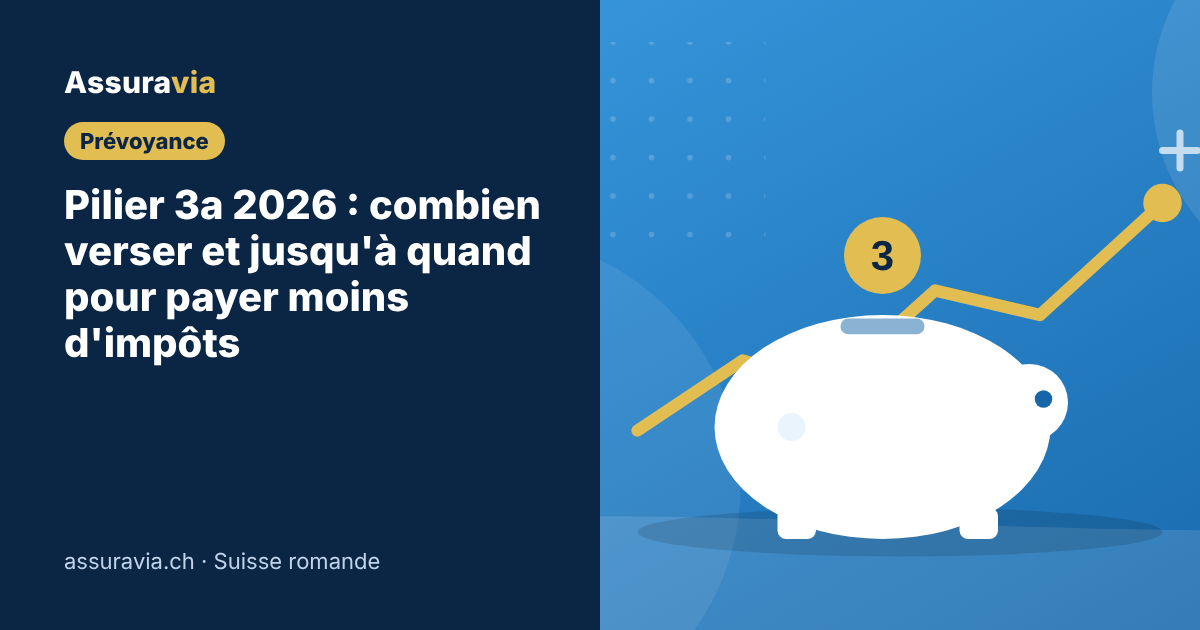
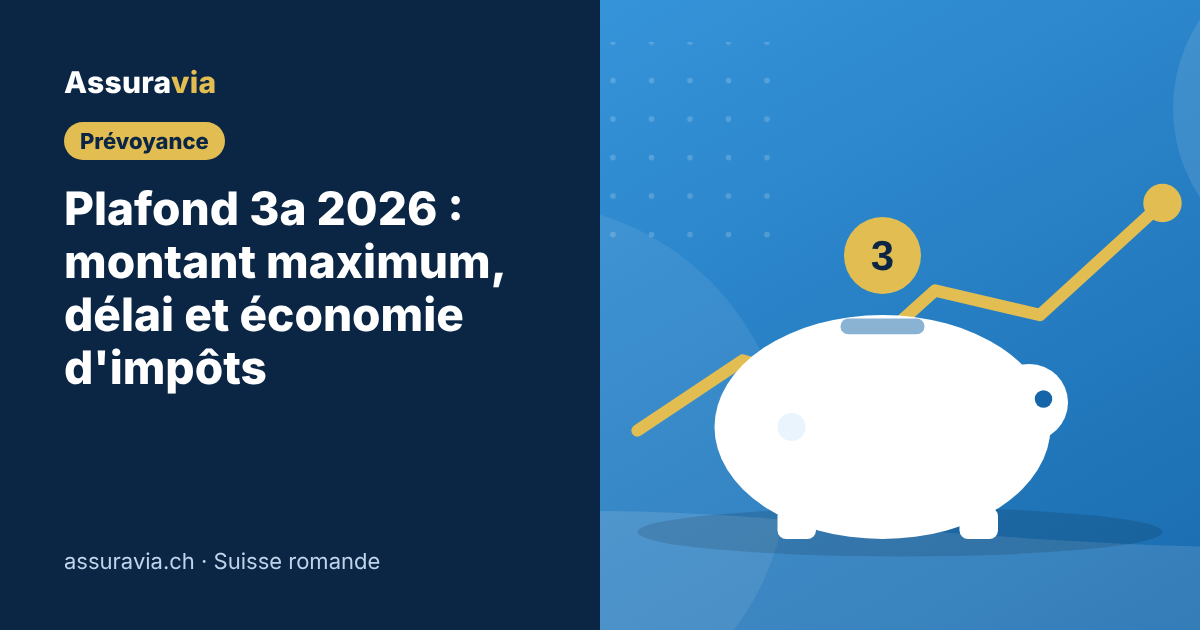
SEO : article plafond 3a 2026 renforcé (rachat, économie par canton), page libre passage enrichie
Claude-Session: https://claude.ai/code/session_01UBCpv1DPT8KsLzcxHwuqLa

Changed region(s): [[0.0308, 0.3016, 0.4625, 0.6333], [0.9558, 0.2111, 1.0, 0.2714], [0.9558, 0.8444, 1.0, 0.8746]]

diff --git a/templates/article.html b/templates/article.html
@@ -26,7 +26,7 @@
       <p class="badge">{{ article.categorie }}</p>
       <h1>{{ article.titre }}</h1>
       <p class="chapeau">{{ article.description }}</p>
-      <p class="article__meta">{{ i.icone("horloge", "icone icone--petite") }} {{ article.lecture }} min de lecture <span aria-hidden="true">·</span> Publié le <time datetime="{{ article.date }}">{{ article.date_fr }}</time>{% if article.maj %}, mis à jour le {{ article.maj }}{% endif %}</p>
+      <p class="article__meta">{{ i.icone("horloge", "icone icone--petite") }} {{ article.lecture }} min de lecture <span aria-hidden="true">·</span> Publié le <time datetime="{{ article.date }}">{{ article.date_fr }}</time>{% if article.maj %}, mis à jour le <time datetime="{{ article.maj }}">{{ article.maj_fr }}</time>{% endif %}</p>
       </div>
       <div class="article__image">{{ cv.couverture(article.categorie, (article.titre|length * 7 + article.url|length * 3) % 100, article.illustration) }}</div>
     </div>

diff --git a/templates/pages/particuliers/3e-pilier.html b/templates/pages/particuliers/3e-pilier.html
@@ -135,6 +135,7 @@
           </tbody>
         </table>
       </div>
+      <p>Plafonds, date limite du 31 décembre et économie d'impôts dans chaque canton romand : tout le détail dans notre article <a href="/blog/pilier-3a-2026-montant-delai/">plafond 3a 2026 : montant maximum et délai</a>.</p>
 
       <h2 id="avantages">Ce que le 3e pilier vous apporte</h2>
       <div class="lp-avantages p3-avantages">

diff --git a/build.py b/build.py
@@ -276,6 +276,7 @@ def lire_article(path: Path) -> dict:
         "slug": path.stem,
         "date_obj": date,
         "date_fr": date_fr(date),
+        "maj_fr": date_fr(dt.date.fromisoformat(meta["maj"])) if meta.get("maj") else "",
         "html": html,
         "html_debut": html[:coupe],
         "html_fin": html[coupe:],

diff --git a/content/articles/pilier-3a-2026-montant-delai.md b/content/articles/pilier-3a-2026-montant-delai.md
@@ -1,72 +1,119 @@
 ---
-titre: Pilier 3a 2026 : combien verser et jusqu'à quand pour payer moins d'impôts
-titre_seo: Pilier 3a 2026 : combien verser et quand
-description: Montants maximums 2026, date limite du 31 décembre, économie d'impôts selon votre revenu et rattrapage des années manquées : l'essentiel sur le 3e pilier.
+titre: Plafond 3a 2026 : montant maximum, délai et économie d'impôts
+titre_seo: Plafond 3a 2026 : montant maximum et délai
+description: Plafond du pilier 3a en 2026 (CHF 7'258 ou 36'288), délai du 31 décembre, rachat des lacunes 2025 et économie d'impôts dans chaque canton romand.
 date: 2026-09-08
+maj: 2026-11-08
 illustration: tirelire
 categorie: Prévoyance
 cta_titre: Combien allez-vous économiser ?
 cta_texte: Le simulateur calcule votre économie d'impôts selon votre canton et votre revenu, en une minute.
 cta_url: /particuliers/3e-pilier/
 cta_bouton: Calculer mon économie
-retenir: Jusqu'à CHF 7'258 déductibles en 2026 pour un salarié, jusqu'à CHF 36'288 pour un indépendant sans caisse de pension | Le versement doit être crédité avant le 31 décembre | L'économie dépend de votre taux marginal d'imposition | Depuis 2025, les années manquées peuvent être rattrapées
+retenir: Plafond 3a 2026 : CHF 7'258 pour un salarié affilié à une caisse de pension, 20 % du revenu net et au maximum CHF 36'288 pour un indépendant sans caisse de pension | Le versement doit être crédité sur le compte 3a au plus tard le 31 décembre 2026 | Depuis 2026, vous pouvez aussi racheter la lacune de 2025, en plus du versement de l'année | Pour CHF 7'258 versés, l'économie d'impôts tourne autour de CHF 2'000 à 3'000 selon le canton et le revenu
 produits_lies: 3e-pilier, placements, declaration-impots
-quiz: Le 3e pilier A peut être versé jusqu'au 15 janvier pour l'année précédente. | faux | Le versement doit être crédité au plus tard le 31 décembre de l'année concernée. ;; Un indépendant sans caisse de pension peut verser plus qu'un salarié. | vrai | Il peut verser jusqu'à 20 % de son revenu net, au maximum CHF 36'288 en 2026. ;; Avoir plusieurs comptes 3a peut réduire l'impôt au moment du retrait. | vrai | Chaque compte se retire en une fois : en étalant les retraits sur plusieurs années, l'impôt sur le capital baisse souvent.
-pour_qui: Vous êtes salarié et n'avez pas encore versé sur votre 3a cette année | Vous avez un 3a sur un simple compte épargne | Vous avez sauté des versements depuis 2025 | Vous n'avez qu'un seul compte 3a
+quiz: Le 3e pilier A peut être versé jusqu'au 15 janvier pour l'année précédente. | faux | Le versement doit être crédité au plus tard le 31 décembre de l'année concernée. ;; En 2026, on peut racheter les années manquées depuis 2015. | faux | Seules les lacunes nées à partir de 2025 peuvent être rachetées. Le premier rachat possible porte donc sur 2025, et se fait en 2026. ;; Avoir plusieurs comptes 3a peut réduire l'impôt au moment du retrait. | vrai | Chaque compte se retire en une fois : en étalant les retraits sur plusieurs années, l'impôt sur le capital baisse souvent.
+pour_qui: Vous êtes salarié et n'avez pas encore versé sur votre 3a cette année | Vous n'avez pas versé le maximum en 2025 | Vous êtes indépendant sans caisse de pension | Vous n'avez qu'un seul compte 3a
 widget: capital-3a
 ---
 
-Le pilier 3a est l'un des rares moyens légaux de réduire ses impôts en Suisse, et il a une date limite stricte : le 31 décembre. Voici ce qu'il faut savoir pour en profiter en 2026.
+Le pilier 3a est l'un des rares moyens légaux de payer moins d'impôts en Suisse. Il a un plafond, qui dépend de votre situation, et une date limite stricte : le 31 décembre. Voici les montants 2026, le nouveau rachat des années manquées et ce que vous pouvez économiser dans chaque canton romand.
 
-## Les montants maximums en 2026
+## Le plafond du pilier 3a en 2026
 
-Le plafond dépend de votre affiliation à une caisse de pension (2e pilier).
+Le montant maximum dépend d'une seule question : êtes-vous affilié à une caisse de pension (2e pilier) ?
 
-| Votre situation | Versement maximum déductible en 2026 |
+| Votre situation | Plafond 3a 2026 |
 |---|---|
 | Salarié affilié à une caisse de pension | CHF 7'258 |
+| Indépendant affilié à une caisse de pension (volontairement) | CHF 7'258 |
 | Indépendant sans caisse de pension | 20 % du revenu net, au maximum CHF 36'288 |
+| Salarié sans caisse de pension (petit salaire, sous le seuil LPP) | 20 % du revenu, au maximum CHF 36'288 |
 
-Ces montants sont des maximums : vous pouvez verser moins, et la déduction correspond alors au montant réellement versé.
+Les montants sont les mêmes qu'en 2025. Ce sont des maximums : vous pouvez verser moins. La déduction correspond alors au montant réellement versé.
 
-## La date limite : le 31 décembre
+**Exemple d'indépendant.** Marc est graphiste indépendant à Fribourg, sans caisse de pension. Son revenu net est de CHF 90'000. Il peut verser 20 % de ce montant, soit CHF 18'000, et le déduire en entier.
 
-Pour être déductible sur l'année 2026, le versement doit être **crédité** sur votre compte 3a au plus tard le 31 décembre. Un virement lancé le 30 décembre peut arriver trop tard. Prévoyez quelques jours de marge, surtout pendant les fêtes.
+> **Le saviez-vous ?** Le plafond s'applique par personne. Un couple marié où les deux travaillent peut donc verser deux fois CHF 7'258, chacun sur son propre compte 3a, et déduire CHF 14'516 au total.
 
-Si vous n'avez pas encore de 3e pilier, l'ouverture prend en général quelques jours. Mieux vaut s'y prendre dès novembre.
+## Le délai : crédité au plus tard le 31 décembre
 
-> **Le saviez-vous ?** Le versement au 3e pilier se déduit dans la [déclaration d'impôts](/particuliers/declaration-impots/) de l'année du versement. Gardez bien l'attestation que vous envoie votre banque ou votre assureur en début d'année.
+Pour compter sur l'année 2026, le versement doit être **crédité** sur votre compte 3a au plus tard le 31 décembre. C'est la date d'arrivée qui compte, pas celle de l'ordre de paiement.
+
+- Un virement lancé le 30 décembre peut arriver le 3 janvier : il comptera alors pour 2027.
+- Plusieurs banques et assureurs fixent un délai interne quelques jours avant la fin de l'année. Vérifiez-le auprès du vôtre.
+- Ouvrir un premier compte 3a prend en général quelques jours. Si vous n'en avez pas encore, faites-le dès novembre.
+
+> **Attention :** un versement au-dessus du plafond n'est pas déductible. Le prestataire doit vous le rembourser. Gardez un œil sur le total si vous avez plusieurs comptes.
+
+[[cta | Vous n'avez pas encore versé cette année ? Un conseiller vous aide à choisir et ouvrir le bon compte avant le 31 décembre. | /particuliers/3e-pilier/ | Être conseillé gratuitement]]
 
 ## Combien d'impôts allez-vous économiser ?
 
-Le montant versé est déduit de votre revenu imposable pour l'impôt fédéral, cantonal et communal. L'économie dépend de votre **taux marginal**, c'est-à-dire du taux qui frappe la dernière tranche de votre revenu.
+Le montant versé est déduit de votre revenu imposable, pour l'impôt fédéral, cantonal et communal. L'économie dépend de votre **taux marginal** : le taux qui frappe la dernière tranche de votre revenu. Plus votre revenu est élevé, plus la déduction rapporte.
 
-À titre d'ordre de grandeur, pour un versement de CHF 7'258 :
+Nous avons calculé l'économie pour un versement de CHF 7'258, à partir des taux marginaux moyens au chef-lieu de chaque canton, pour une personne seule :
 
-- avec un taux marginal de 20 %, l'économie est d'environ CHF 1'450 ;
-- avec un taux marginal de 30 %, environ CHF 2'180 ;
-- avec un taux marginal de 40 %, environ CHF 2'900.
+| Canton | Revenu imposable CHF 75'000 | CHF 100'000 | CHF 150'000 |
+|---|---|---|---|
+| Genève | ≈ CHF 2'320 | ≈ CHF 2'610 | ≈ CHF 2'900 |
+| Vaud | ≈ CHF 2'470 | ≈ CHF 2'690 | ≈ CHF 2'980 |
+| Neuchâtel | ≈ CHF 2'400 | ≈ CHF 2'610 | ≈ CHF 2'830 |
+| Jura | ≈ CHF 2'320 | ≈ CHF 2'540 | ≈ CHF 2'760 |
+| Fribourg | ≈ CHF 2'250 | ≈ CHF 2'470 | ≈ CHF 2'690 |
+| Valais | ≈ CHF 2'030 | ≈ CHF 2'250 | ≈ CHF 2'540 |
+| Berne (francophone) | ≈ CHF 2'320 | ≈ CHF 2'540 | ≈ CHF 2'760 |
 
-Le taux marginal varie beaucoup selon le canton, la commune, l'état civil et le revenu. Le plus simple est de faire le calcul avec votre propre situation.
+Ces chiffres sont des ordres de grandeur. Votre économie réelle dépend de votre commune, de votre état civil et de vos autres déductions. Le [simulateur 3e pilier](/particuliers/3e-pilier/) fait le calcul avec votre propre revenu.
 
-## Rattraper les années manquées
+> **Astuce :** l'économie revient chaque année. Sur 30 ans de versements, à CHF 2'500 par an, cela représente environ CHF 75'000 d'impôts en moins, sans compter le rendement de l'épargne.
 
-Depuis 2025, la loi permet de rattraper des versements 3a pour les années où vous n'avez pas versé le maximum. Les règles principales :
+## Nouveau : racheter les années manquées
 
-- seules les lacunes **à partir de l'année 2025** peuvent être rattrapées, jusqu'à 10 ans en arrière ;
-- il faut avoir eu un revenu soumis à l'AVS l'année concernée ;
-- vous devez d'abord avoir versé le maximum de l'année en cours.
+Depuis le 1er janvier 2025, la loi permet de combler les lacunes du pilier 3a. Une lacune, c'est la différence entre le plafond d'une année et ce que vous avez réellement versé.
 
-Si vous n'avez pas versé le maximum en 2025, vous pouvez donc combler cette lacune en plus de votre versement 2026. Les modalités pratiques varient selon les banques et assureurs.
+Les règles principales :
 
-## Banque ou assurance ?
+1. **Seules les lacunes à partir de 2025 comptent.** Les années avant 2025 ne peuvent pas être rachetées. Le premier rachat possible se fait donc en 2026, pour l'année 2025.
+2. **Jusqu'à 10 ans en arrière.** Une lacune reste rachetable pendant dix ans.
+3. **D'abord le versement de l'année.** Pour racheter, vous devez avoir versé le plafond de l'année en cours, soit CHF 7'258 en 2026.
+4. **Un revenu AVS les deux années.** Vous devez avoir eu un revenu soumis à l'AVS l'année de la lacune et l'année du rachat.
+5. **Un plafond par rachat.** Chaque année, le rachat est limité à la « petite » cotisation, soit CHF 7'258. Un salarié peut donc verser jusqu'à CHF 14'516 en 2026 : le versement ordinaire plus le rachat.
 
-Un **3e pilier bancaire** est souple : vous versez ce que vous voulez, quand vous voulez, sur un compte épargne ou dans des fonds de placement. Un **3e pilier d'assurance** vous engage à verser régulièrement, mais peut inclure une protection en cas de décès ou d'invalidité.
+Le rachat est déductible du revenu imposable, comme le versement ordinaire. Les modalités pratiques (formulaire, attestation, délais) varient selon les banques et les assureurs.
 
-Le bon choix dépend de votre âge, de votre situation familiale et de votre capacité d'épargne. Les deux formes donnent droit à la même déduction fiscale.
+> **Exemple :** Julie, 34 ans, salariée à Lausanne, n'a versé que CHF 3'000 en 2025. Sa lacune 2025 est de CHF 4'258. En 2026, elle verse d'abord CHF 7'258, puis rachète CHF 4'258. Elle déduit CHF 11'516 au total. Avec un revenu imposable de CHF 85'000, son économie d'impôts dépasse CHF 4'000 cette année.
+
+## Banque ou assurance : quel 3e pilier choisir ?
+
+Les deux formes donnent droit à la même déduction. Elles ne répondent pas au même besoin.
+
+| | 3e pilier bancaire | 3e pilier d'assurance |
+|---|---|---|
+| Versements | Libres, quand vous voulez | Prime fixe, engagement sur la durée |
+| Placement | Compte épargne ou fonds | Selon le contrat |
+| Protection décès ou invalidité | Non | Possible, selon le contrat |
+| Souplesse | Élevée | Faible (frais en cas d'arrêt anticipé) |
+
+Le bon choix dépend de votre âge, de votre famille et de votre capacité d'épargne. Avec des enfants ou un crédit hypothécaire, une protection en cas de décès peut compter autant que l'impôt économisé. Un conseiller compare les deux avec vous.
+
+[[cta | Vous hésitez entre banque et assurance ? Un conseiller compare les deux avec votre situation. | /particuliers/3e-pilier/ | Comparer avec un conseiller]]
 
 ## Trois erreurs fréquentes
 
 1. **Attendre le dernier jour.** Un versement crédité le 2 janvier compte pour l'année suivante.
-2. **Tout mettre sur un seul compte.** Un compte 3a se retire en une fois. Avec plusieurs comptes, vous pouvez étaler les retraits et réduire l'impôt sur le capital à la retraite.
-3. **Laisser l'argent sur un compte peu rémunéré pendant 30 ans.** Sur une longue durée, la manière dont l'épargne est placée compte autant que la déduction fiscale.
+2. **Tout mettre sur un seul compte.** Un compte 3a se retire en une fois. Avec plusieurs comptes, vous pouvez étaler les retraits et payer moins d'impôt sur le capital. Notre article sur le [retrait échelonné du 3e pilier](/blog/retrait-3e-pilier-echelonne/) détaille le calcul.
+3. **Laisser dormir l'argent sur un compte peu rémunéré.** Sur 20 ou 30 ans, la manière dont l'épargne est placée compte autant que la déduction fiscale. Les [solutions de placement](/particuliers/placements/) se choisissent selon votre horizon et votre tolérance au risque.
+
+Le versement se déduit dans la [déclaration d'impôts](/particuliers/declaration-impots/) de l'année du versement. Gardez bien l'attestation que votre banque ou votre assureur vous envoie en début d'année.
+
+## Questions fréquentes
+
+### Quel est le montant maximum du 3e pilier en 2026 ?
+CHF 7'258 pour une personne affiliée à une caisse de pension. Sans caisse de pension, 20 % du revenu net, au maximum CHF 36'288.
+
+### Jusqu'à quand peut-on verser sur son 3a pour 2026 ?
+Le montant doit être crédité sur le compte 3a au plus tard le 31 décembre 2026. Comptez quelques jours de marge, car certains prestataires fixent un délai interne plus tôt.
+
+### Peut-on rattraper les années où l'on n'a pas versé ?
+Oui, mais seulement pour les années à partir de 2025, et après avoir versé le plafond de l'année en cours. Le rachat est limité à CHF 7'258 par an et reste possible pendant dix ans.

diff --git a/content/produits/libre-passage.md b/content/produits/libre-passage.md
@@ -5,13 +5,13 @@ nom: Libre passage
 categorie: Retraite et impôts
 icone: fleches
 ordre: 2
-titre_seo: Compte de libre passage : votre 2e pilier
-description: Chômage, pause, indépendance, départ de Suisse : où placer votre 2e pilier quand vous quittez votre caisse de pension, et les erreurs à éviter.
+titre_seo: Compte de libre passage : définition et choix
+description: Compte de libre passage : c'est quoi, comment l'ouvrir, compte ou police, épargne ou fonds. Où placer votre 2e pilier entre deux emplois, sans erreur.
 desc: Placez votre 2e pilier entre deux emplois, sans le laisser dormir ni perdre de rendement.
 points: Compte ou police de libre passage | Placement en fonds possible | Accompagnement en cas de départ de Suisse
 badge: Offre gratuite
 bouton: Placer mon libre passage
-h1: Libre passage : que faire de votre 2e pilier quand vous quittez votre emploi ?
+h1: Compte de libre passage : que faire de votre 2e pilier entre deux emplois ?
 chapeau: Sans nouvelle caisse de pension, votre avoir LPP doit être placé ailleurs. C'est souvent une part importante de votre prévoyance : le choix de la solution mérite quelques minutes de réflexion.
 retenir: Sans nouvelle caisse de pension, votre avoir va sur un compte ou une police de libre passage. | Sans instruction de votre part, il finit à l'institution supplétive LPP. | Vous pouvez répartir votre avoir sur deux institutions au maximum. | En cas de nouvel emploi, l'avoir doit être transféré à la nouvelle caisse.
 pour_qui: Vous quittez votre emploi sans en avoir trouvé un autre | Vous devenez indépendant sans caisse de pension | Vous partez vivre à l'étranger | Vous avez oublié un ancien avoir de 2e pilier
@@ -20,6 +20,12 @@ demande_titre: Votre libre passage, bien placé
 demande_texte: Compte ou police, épargne ou fonds : un spécialiste vous aide à choisir selon votre horizon et votre besoin de sécurité.
 demande_points: Choix entre compte et police de libre passage | Placement adapté à votre profil | Demande en 2 minutes, sans engagement
 ---
+
+## C'est quoi, un compte de libre passage ?
+
+Un compte de libre passage est un compte bloqué qui garde votre **2e pilier** (votre avoir LPP) quand vous n'êtes plus affilié à une caisse de pension. L'argent reste dans la prévoyance professionnelle : vous ne pouvez pas le retirer librement, et il n'est pas imposé tant qu'il y reste.
+
+Il est ouvert auprès d'une **fondation de libre passage**, rattachée à une banque, ou d'un assureur sous forme de **police de libre passage**. C'est vous qui choisissez où, et la solution peut faire une grosse différence sur la durée.
 
 ## Quand êtes-vous concerné ?
 
@@ -45,6 +51,27 @@ Si vous ne donnez pas d'instructions, votre ancienne caisse de pension transfèr
 | Police de libre passage d'assurance | Capital garanti, avec en option une couverture décès ou invalidité | Moins souple, conditions de rachat à vérifier |
 
 Votre prestation de sortie peut être transférée à **deux institutions de libre passage au maximum**. Cette répartition permet ensuite d'échelonner les retraits sur plusieurs années, ce qui peut alléger l'impôt sur le capital selon votre canton.
+
+## Épargne ou fonds : ce que ça change sur 10 ans
+
+Le placement choisi pèse lourd, car l'argent reste souvent des années sur le compte. Exemple calculé par Assuravia pour un avoir de CHF 80'000 laissé 10 ans, avec trois hypothèses de rendement annuel moyen :
+
+| Placement | Rendement supposé | Avoir après 10 ans |
+|---|---|---|
+| Compte épargne | 0,5 % | ≈ CHF 84'100 |
+| Fonds prudent | 2 % | ≈ CHF 97'500 |
+| Fonds équilibré | 3,5 % | ≈ CHF 112'800 |
+
+Ces rendements sont des hypothèses, pas des promesses : un placement en fonds peut aussi baisser, surtout sur une courte durée. Plus votre horizon est long, plus une part en fonds peut se justifier.
+
+## Ouvrir un compte de libre passage en 4 étapes
+
+1. **Choisissez la solution** : compte bancaire (épargne ou fonds) ou police d'assurance, sur une ou deux institutions.
+2. **Ouvrez le compte** auprès de la fondation choisie : formulaire, copie d'une pièce d'identité, et souvent le certificat de votre ancienne caisse.
+3. **Donnez les coordonnées à votre ancienne caisse de pension**, qui transfère votre prestation de sortie.
+4. **Gardez les attestations** : vous en aurez besoin pour un futur employeur, un achat immobilier ou la retraite.
+
+> **Exemple :** Sofia, 41 ans, quitte son poste à Genève pour une année sabbatique. Sa caisse lui annonce une prestation de sortie de CHF 120'000. Elle la répartit sur deux comptes de libre passage : l'un en épargne, pour pouvoir la transférer vite si elle reprend un emploi, l'autre en fonds équilibrés pour le long terme. Plus tard, deux comptes lui permettront aussi d'échelonner les retraits.
 
 ## Comment bien choisir
 
@@ -86,6 +113,9 @@ Il doit être transféré à la caisse de pension de votre nouvel employeur. Pen
 
 ### Je pars à l'étranger, puis-je tout retirer ?
 Cela dépend de votre pays de destination. Pour l'UE et l'AELE, la partie obligatoire reste en principe en Suisse si vous y êtes assuré obligatoirement. La partie surobligatoire peut être retirée.
+
+### Faut-il déclarer son compte de libre passage aux impôts ?
+Tant que l'argent reste en prévoyance, l'avoir n'est pas soumis à l'impôt sur la fortune et ses intérêts ne sont pas imposés comme revenu. L'impôt n'intervient qu'au retrait, sur le capital, séparément de vos autres revenus.
 
 ### Puis-je changer de fondation de libre passage plus tard ?
 Oui, en général. Vérifiez les éventuels frais de sortie et, pour une police d'assurance, la valeur de rachat avant de demander le transfert.
